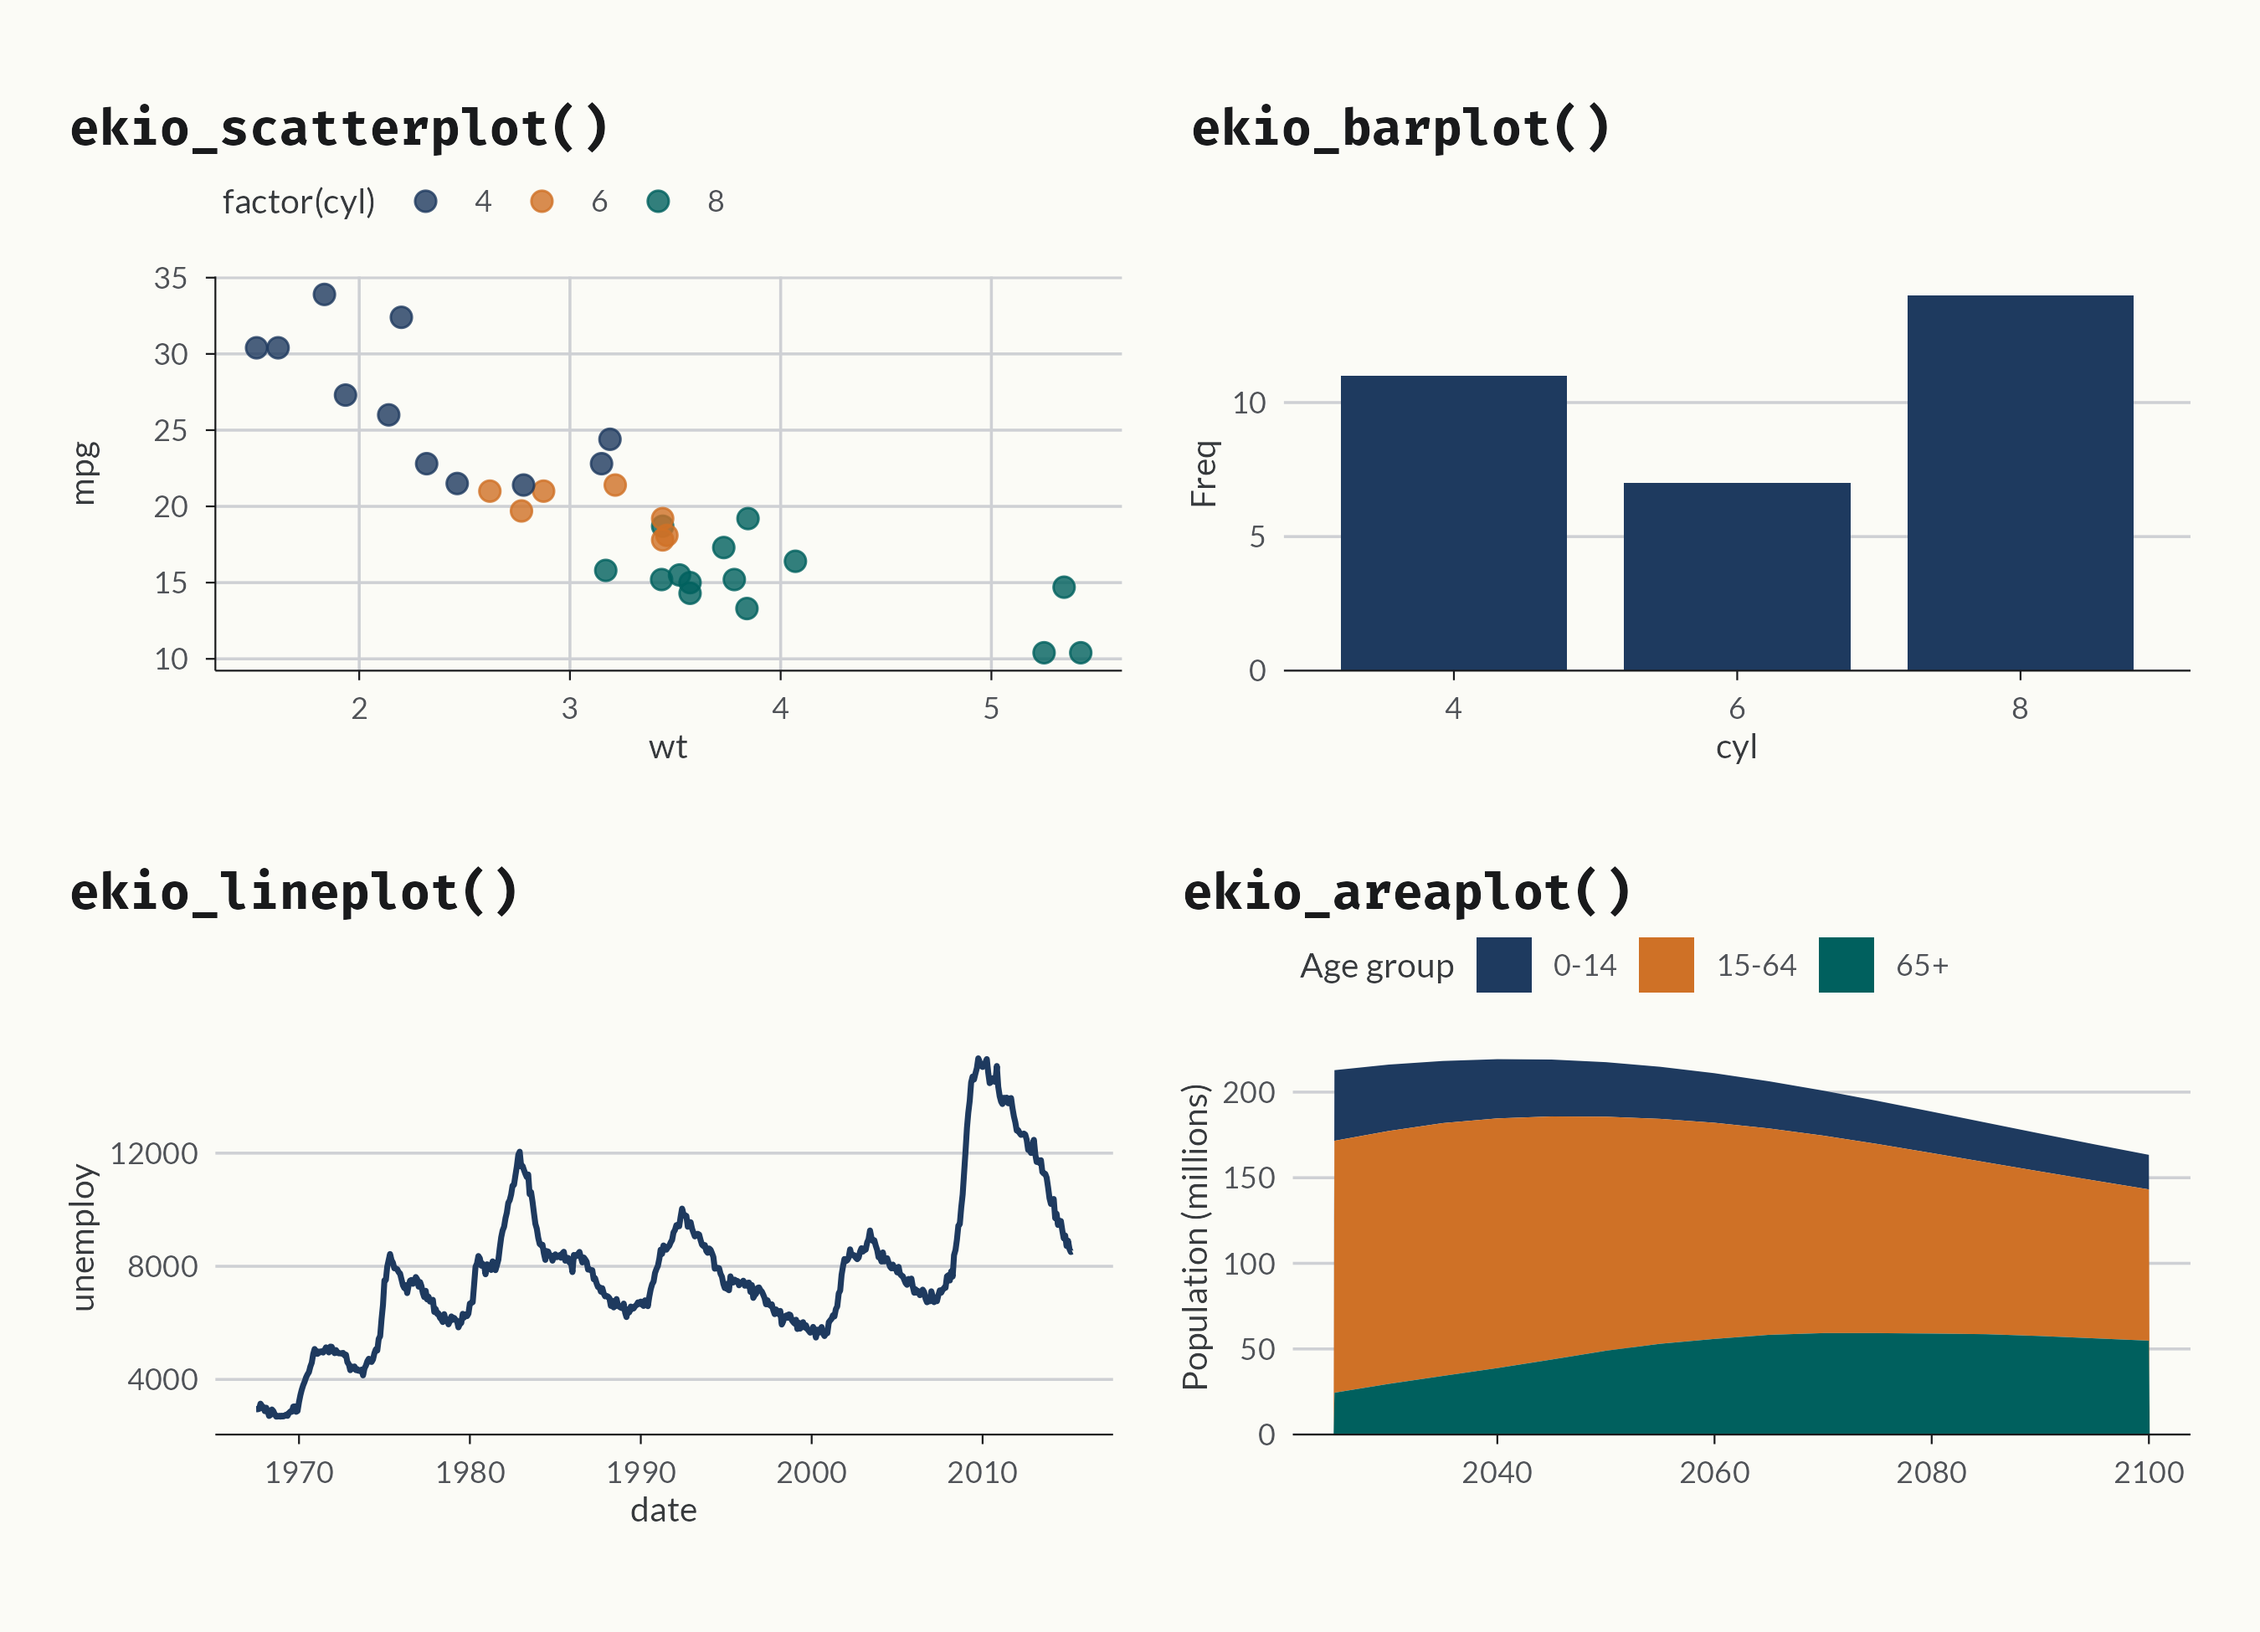
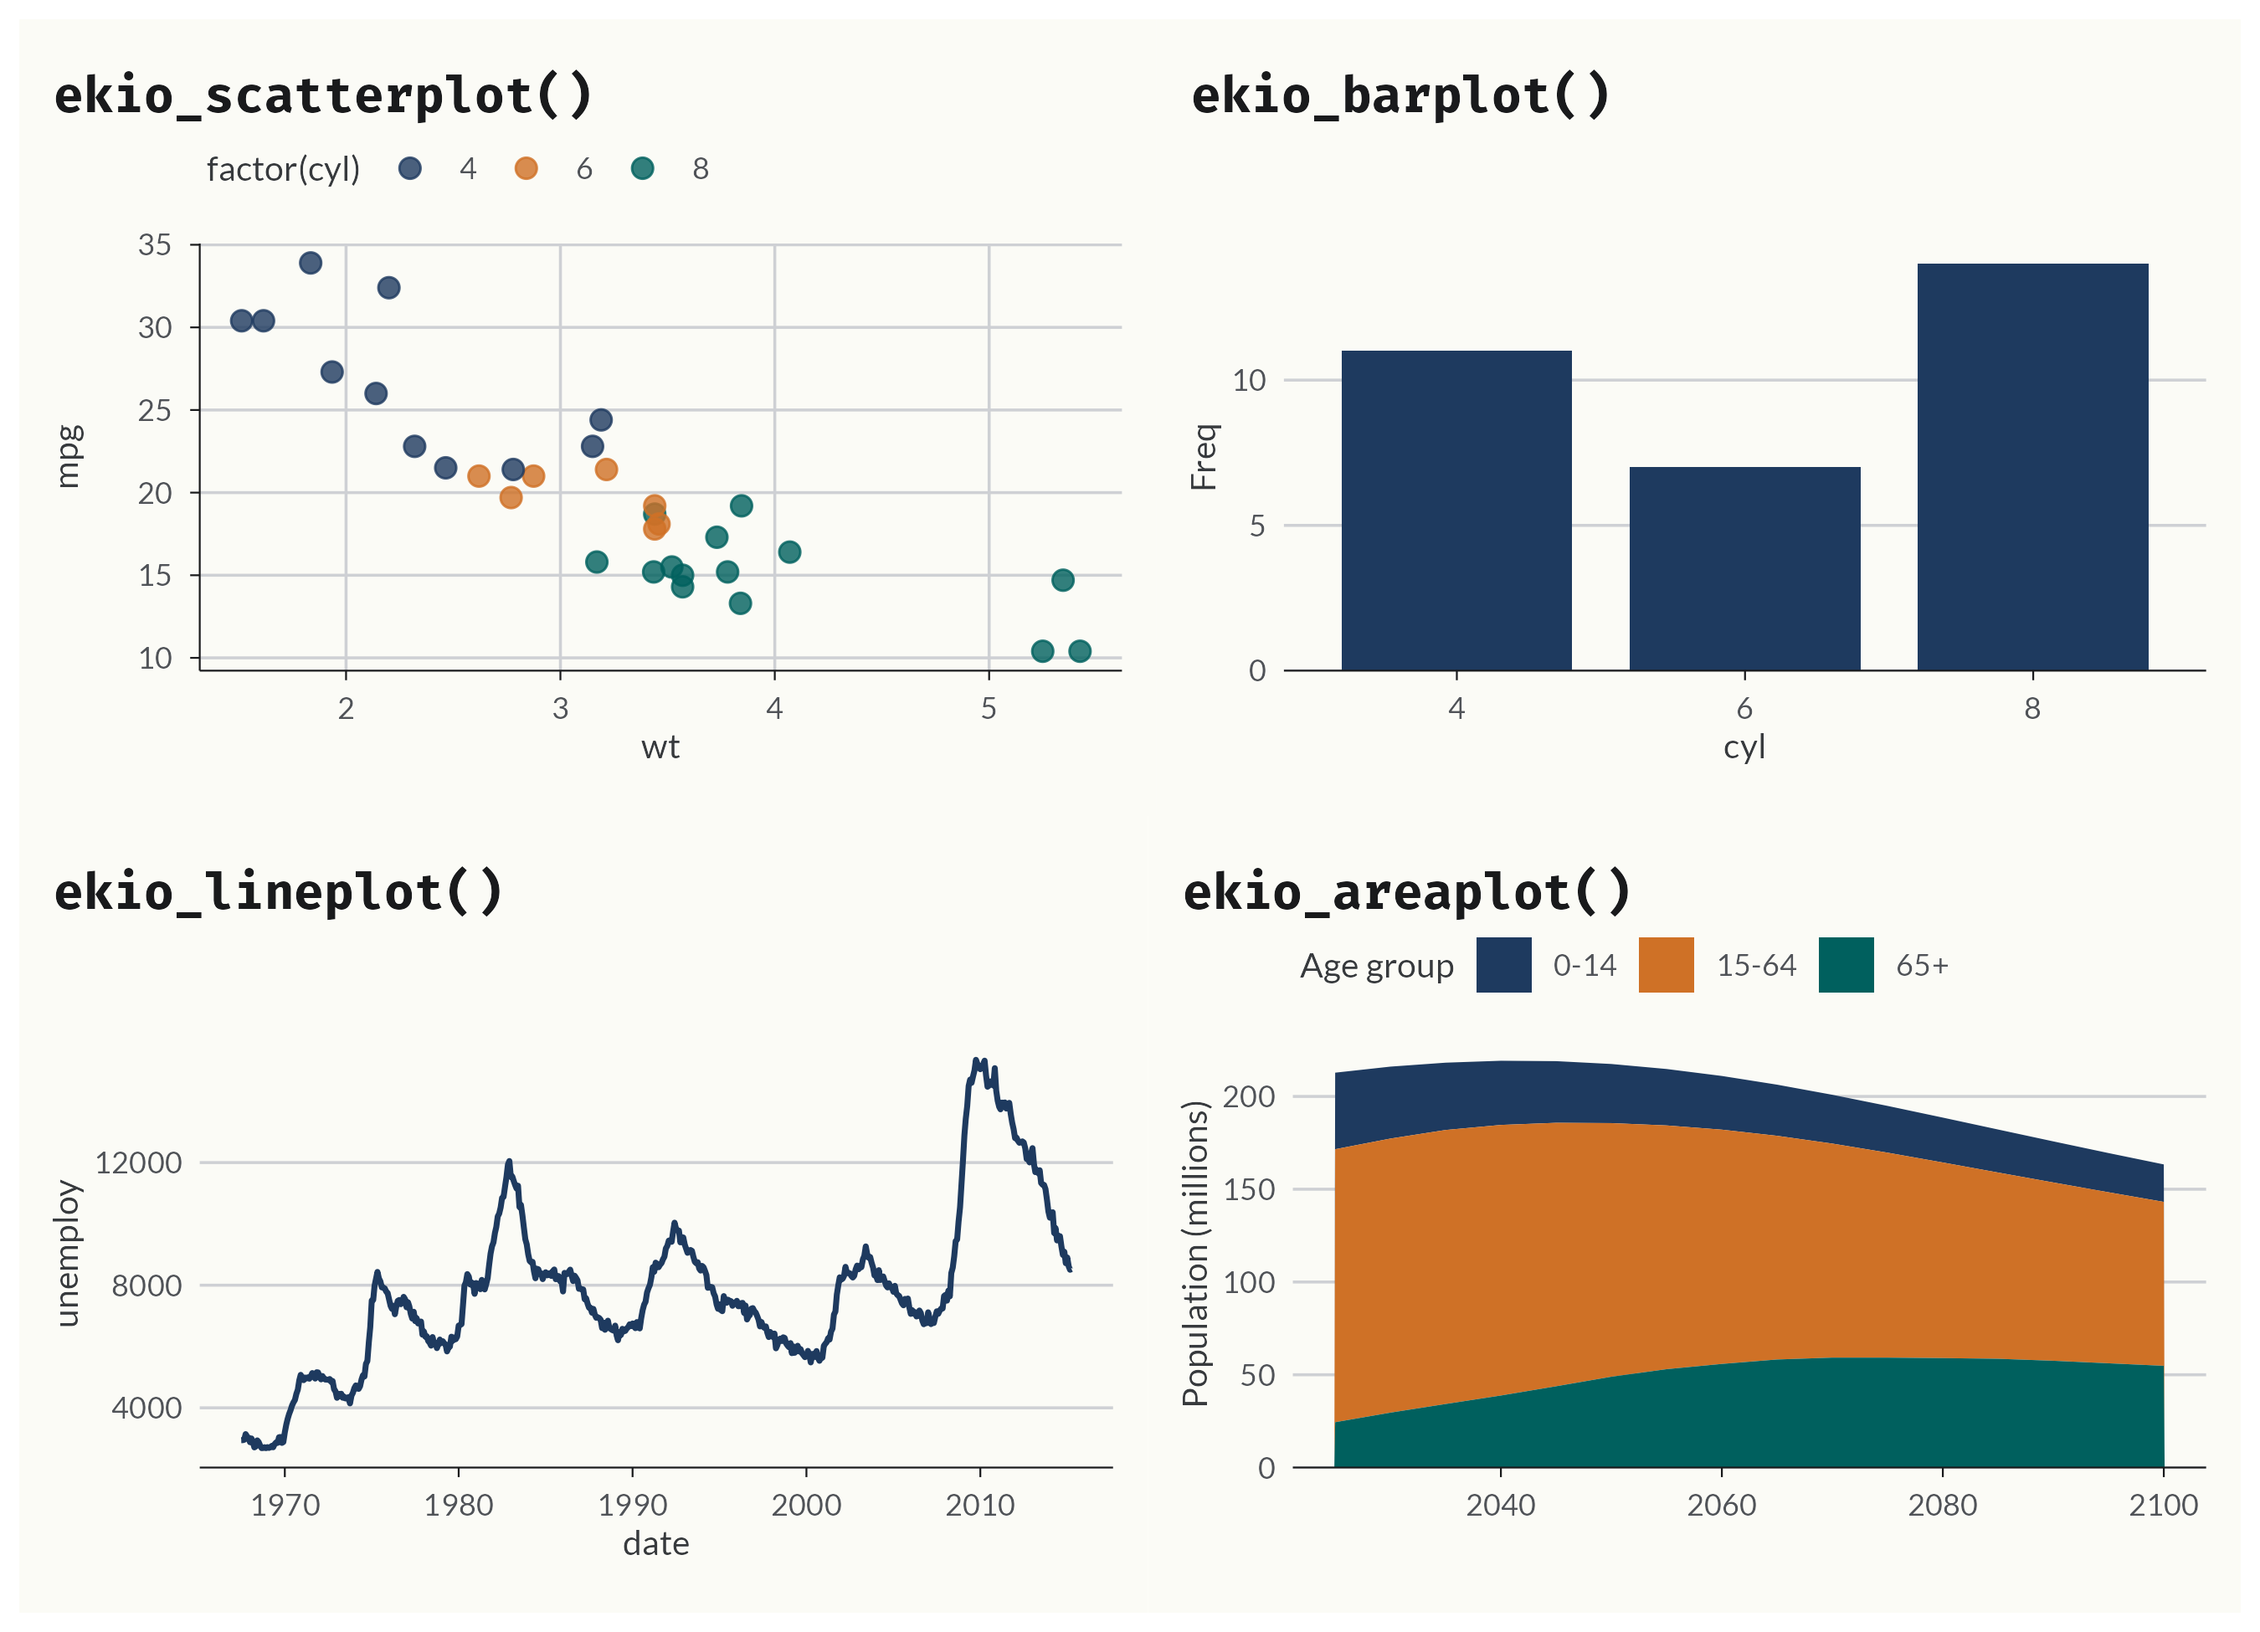
docs: update surfaces and palette guidance
- Document named plot surfaces and custom backgrounds
- Refresh README badge and recipe figure
- Clarify diverging palette shade guidance

diff --git a/README.md b/README.md
@@ -7,7 +7,8 @@
 
 <!-- badges: start -->
 
-[![](https://www.r-pkg.org/badges/version/ekioplot?color=white)](https://cran.r-project.org/package=ekioplot)
+[![CRAN
+version](https://www.r-pkg.org/badges/version/ekioplot?color=white)](https://cran.r-project.org/package=ekioplot)
 [![Lifecycle:
 experimental](https://img.shields.io/badge/lifecycle-experimental-orange.svg)](https://lifecycle.r-lib.org/articles/stages.html#experimental)
 [![R-universe](https://viniciusoike.r-universe.dev/badges/ekioplot)](https://viniciusoike.r-universe.dev/ekioplot)
@@ -71,10 +72,14 @@ pak::pak("viniciusoike/ekioplot")
 `theme_ekio()` applies EKIO’s visual identity to any ggplot2 plot,
 building on `theme_minimal()` with curated typography, spacing, and
 color. The `grid` argument controls which major grid lines are drawn
-(`"y"`, `"x"`, `"xy"`, or `"none"`).
+(`"y"`, `"x"`, `"xy"`, or `"none"`). Choose the warm off-white, white,
+or cool-white surface with the `background` argument, or pass a custom
+hex color. `ekio_surface()` resolves a named surface to its hex code.
 
 ``` r
 theme_ekio(grid = "xy")
+theme_ekio(background = "cold")
+ekio_surface("offwhite")
 ```
 
 ## Color palettes
